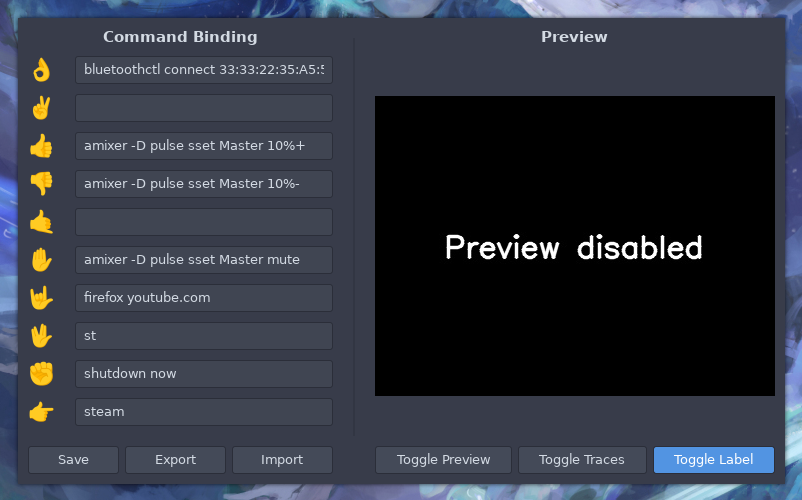
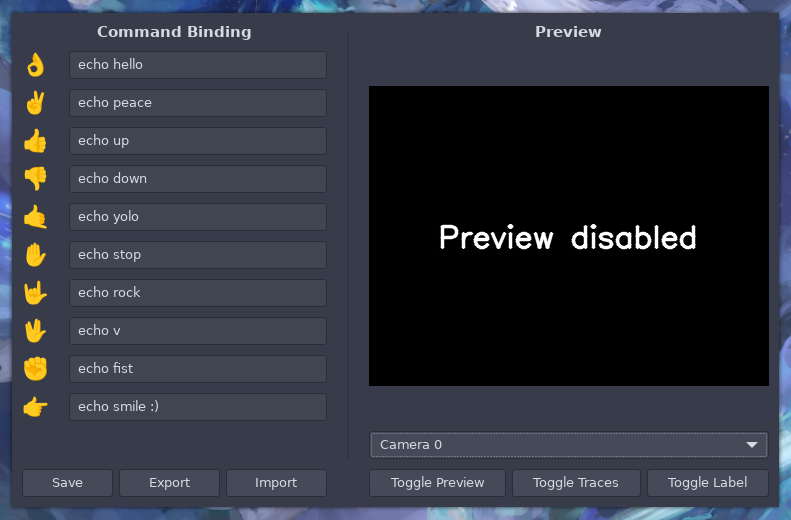
added an option for multiple  camera sources

diff --git a/gui.py b/gui.py
@@ -102,7 +102,18 @@ class Main(Gtk.Window):
 
         # Create a widget for displaying the video
         self.video_widget = Gtk.Image()
-        self.grid.attach(self.video_widget, 3, 1, 1, len(class_names)+1)
+        self.grid.attach(self.video_widget, 3, 1, 1, len(class_names))
+
+        # Camera source button
+        camera_sources = self.get_camera_sources()
+        self.camera_source_combo = Gtk.ComboBoxText()
+        for source in camera_sources:
+            self.camera_source_combo.append_text(f"Camera {source}")
+        self.camera_source_combo.set_active(0)  # Set default selection
+        self.grid.attach(self.camera_source_combo, 3, len(class_names)+1, 1, 1)
+
+        # Connect signal handler for dropdown menu
+        self.camera_source_combo.connect("changed", self.on_camera_source_changed)
 
         # Create a separate row for toggle buttons
         toggle_button_row = Gtk.Grid()
@@ -271,6 +282,22 @@ class Main(Gtk.Window):
             self.class_text_enabled = True
         else:
             self.class_text_enabled = False
+    
+    def get_camera_sources(self):
+        camera_sources = []
+        for i in range(10):  # Check up to 10 camera sources
+            cap = cv2.VideoCapture(i)
+            if cap.isOpened():
+                camera_sources.append(i)
+                cap.release()
+        return camera_sources
+
+    def on_camera_source_changed(self, combo):
+        active_text = combo.get_active_text()
+        if active_text:
+            camera_index = int(active_text.split()[-1])
+            self.cap.release()  # Release the previous camera
+            self.cap = cv2.VideoCapture(camera_index)  # Open the new camera
 
 win = Main()
 win.connect("destroy", win.close_window)

diff --git a/README.md b/README.md
@@ -14,16 +14,42 @@ GestureX enables you to control your Linux PC using hand gestures. You can assig
 1. Clone the repository:
 
     ```bash
-    git clone https://git.0x7f.in/sarthak/GestureX.git
+    git clone https://github.com/flying-pizza-69/GestureX
+    ```
+
+2. Create and activate Virtual Environment
+    ```
+    cd GestureX
+    python3 -m venv venv
+    source venv/bin/activate
     ```
 
 2. Install the required dependencies:
 
     ```bash
-    pip3 install opencv-python numpy mediapipe tensorflow PyGObject 
+    (venv) pip install -r requirements.txt
     ```
 
-3. Run the application:
+3. Install the required fonts to display emojis
+
+- Arch Linux
+    ```bash
+    pacman -S noto-fonts-emoji
+    ```
+- Ubuntu or Debian
+    ```bash
+    apt-get install fonts-noto-color-emoji
+    ```
+- Fedora or RHEL Based
+    ```bash
+    dnf install google-noto-emoji-fonts
+    ```
+- openSUSE
+    ```bash
+    zypper install google-noto-emoji-fonts
+    ```
+
+4. Run the application:
 
     ```bash
     python3 gui.py
@@ -45,9 +71,11 @@ GestureX enables you to control your Linux PC using hand gestures. You can assig
 - "Call me" gesture
 - Stop gesture
 - Rock and roll sign
-- Fist
+- Fist gesture
 - Smile hand gesture
-- "Live long and prosper" Vulcan salute
+- "Live long" gesture
+
+These are the default gestures supported by the model. I am working on adding your own custom gesture as well.
 
 ## Screenshots
 ![Main UI](screenshots/screenshot1.png)
